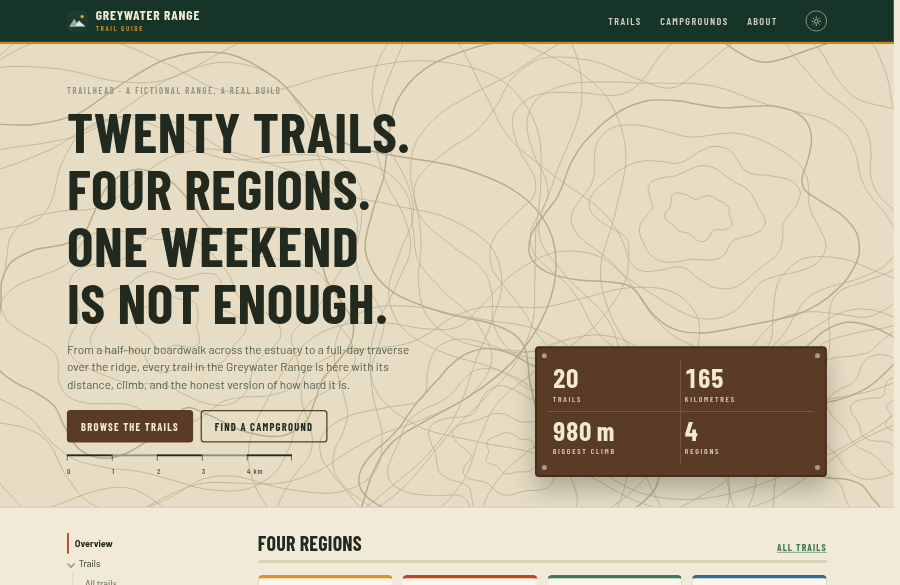
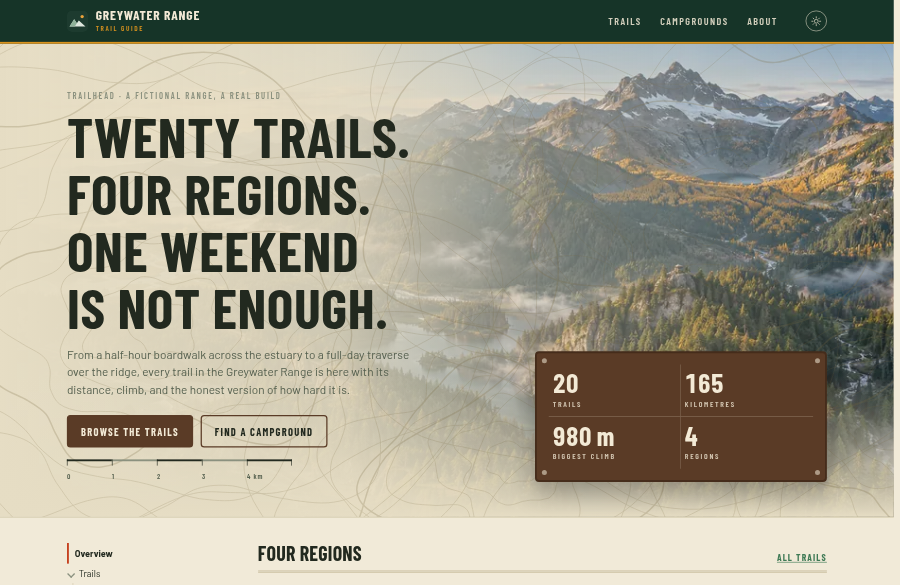
Put the Greywater aerial under the hero
The aerial from Codex sits behind the map board under a wash that keeps
the left third readable in both themes and fades into the page, with the
contour mask over it. Shipped as a 1942 px WebP with a 1200 px variant.

diff --git a/examples/data-pages/static/guide.css b/examples/data-pages/static/guide.css
@@ -328,22 +328,48 @@ h1, h2, h3 {
 .hero {
   position: relative;
   overflow: hidden;
-  padding: 4rem 0 3rem;
+  padding: 4.5rem 0 3.5rem;
   background: var(--paper-deep);
   border-bottom: 1px solid var(--line);
+  --wash: var(--paper-deep);
+}
+
+/* The aerial sits under a wash that keeps the left third readable and fades
+   the bottom edge into the page; the contour mask lies over it like a map. */
+.hero-photo {
+  position: absolute;
+  inset: 0;
+  z-index: 0;
+  width: 100%;
+  height: 100%;
+  object-fit: cover;
+  object-position: 62% 50%;
+}
+
+.hero::before {
+  content: "";
+  position: absolute;
+  inset: 0;
+  z-index: 1;
+  background:
+    linear-gradient(180deg, transparent 70%, var(--wash) 100%),
+    linear-gradient(90deg, var(--wash) 0%, color-mix(in srgb, var(--wash) 88%, transparent) 38%, color-mix(in srgb, var(--wash) 45%, transparent) 60%, color-mix(in srgb, var(--wash) 10%, transparent) 100%);
 }
 
 .hero-map {
   position: absolute;
   inset: 0;
+  z-index: 2;
   background: var(--contour);
   -webkit-mask: url("contours.svg") center / cover no-repeat;
   mask: url("contours.svg") center / cover no-repeat;
+  opacity: 0.55;
   pointer-events: none;
 }
 
 .hero-inner {
   position: relative;
+  z-index: 3;
   display: grid;
   grid-template-columns: minmax(0, 1.2fr) minmax(0, 0.8fr);
   gap: 3rem;
@@ -1318,6 +1344,12 @@ h1, h2, h3 {
 
   .hero {
     padding: 2.5rem 0 2rem;
+  }
+
+  .hero::before {
+    background:
+      linear-gradient(180deg, transparent 70%, var(--wash) 100%),
+      color-mix(in srgb, var(--wash) 84%, transparent);
   }
 
   .hero h1 {

diff --git a/examples/data-pages/templates/page.php b/examples/data-pages/templates/page.php
@@ -68,6 +68,7 @@ $endfor$
 
 	<?php if($layout === 'home' && is_array($home)): ?>
 	<section class="hero">
+		<img class="hero-photo" src="<?=escapeHtml(resolveAssetUrl('/images/hero-aerial.webp'))?>" srcset="<?=escapeHtml(resolveAssetUrl('/images/hero-aerial-1200.webp'))?> 1200w, <?=escapeHtml(resolveAssetUrl('/images/hero-aerial.webp'))?> 1942w" sizes="100vw" width="1942" height="809" alt="" fetchpriority="high" decoding="async">
 		<div class="hero-map" aria-hidden="true"></div>
 		<div class="hero-inner">
 			<div>
